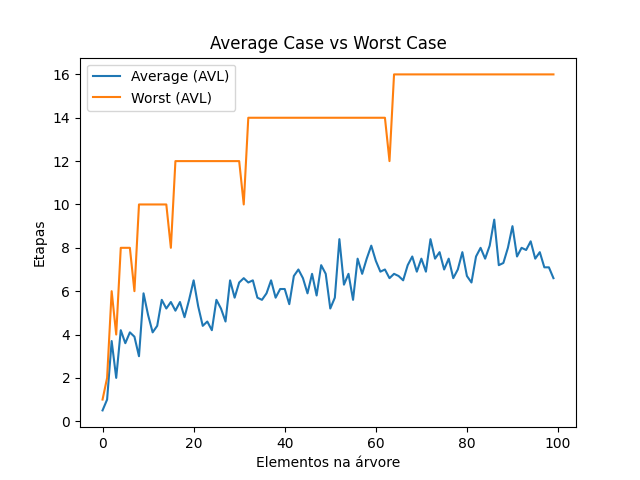
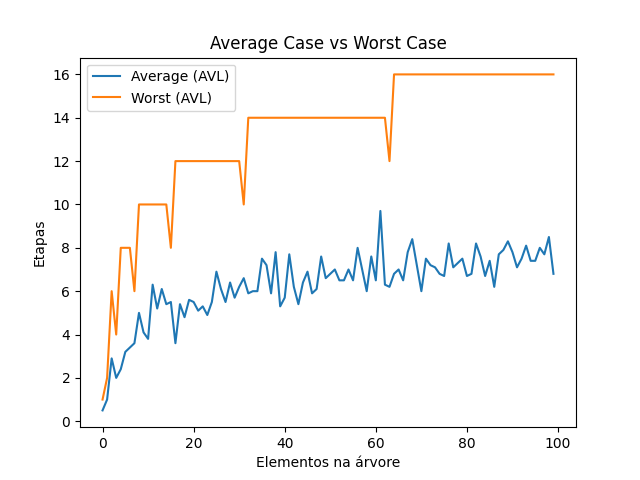
update

Changed region(s): [[0.1562, 0.4375, 0.875, 0.8125]]

diff --git a/Trabalho/AVLTree/BinaryTree.c b/Trabalho/AVLTree/BinaryTree.c
@@ -2,6 +2,7 @@
 #include "stdlib.h"
 #include "BinaryTree.h"
 #include "stdbool.h"
+int countSteps = 0;
 
 void printTree(node *root){
     printf("%i ", root->number);

diff --git a/Trabalho/AVLTree/BinaryTree.h b/Trabalho/AVLTree/BinaryTree.h
@@ -10,7 +10,6 @@ typedef struct Tree tree;
 struct Tree{
     node *firstRoot; 
 };
-
 int countSteps;
 
 void printTree(node *root);
